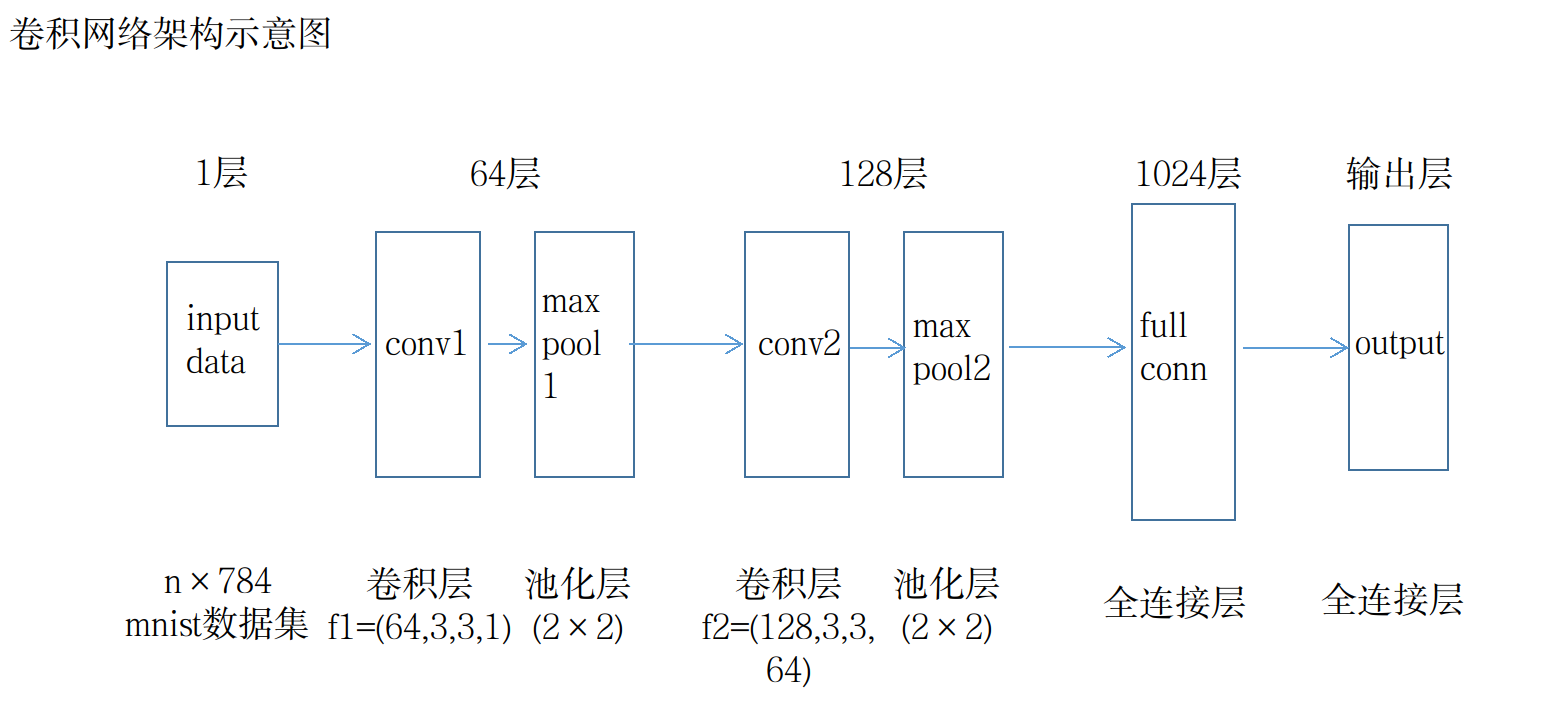
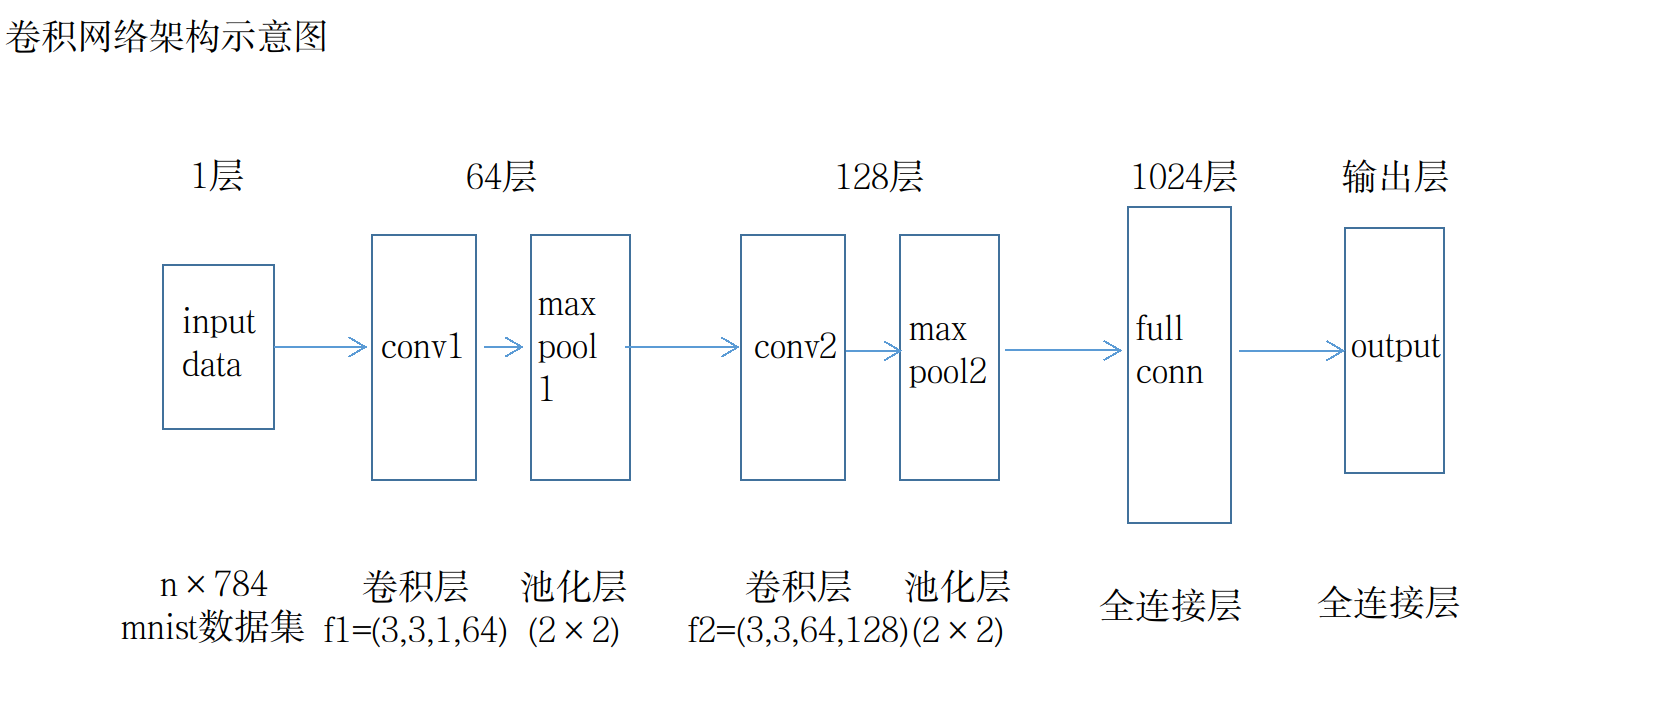
卷积网络架构图

diff --git a/tensorflow-learning/卷积神经网络搭建.md b/tensorflow-learning/卷积神经网络搭建.md
@@ -2,3 +2,5 @@
 前两篇文章[tensorflow应用方法(二)](http://www.jianshu.com/p/b65b94522e1c)和[tensorflow入门应用方法](http://www.jianshu.com/p/772d57571272)分别描述了应用tensorflow搭建拥有两层隐藏层的全连接型深度模型和单层逻辑回归和线性回归的方法流程。本文主要讲述应用tensorflow搭建卷积神经网络以及应用典型的VGG网络的使用方法。
 
 ## 卷积网络搭建
+### 卷积网络架构图
+![网络架构示意图](https://raw.githubusercontent.com/huiyang865/material/master/image/%E5%8D%B7%E7%A7%AF%E7%BD%91%E7%BB%9C%E6%9E%B6%E6%9E%84%E5%9B%BE.png)
